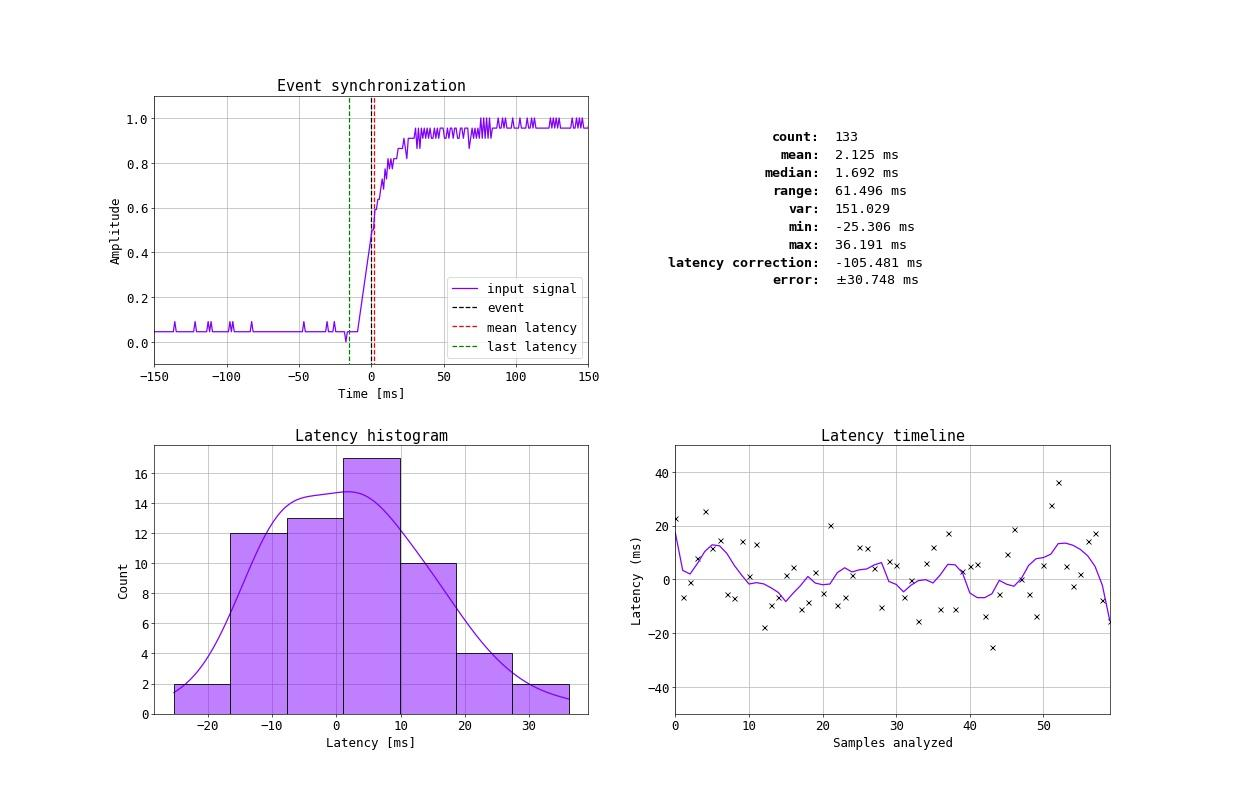
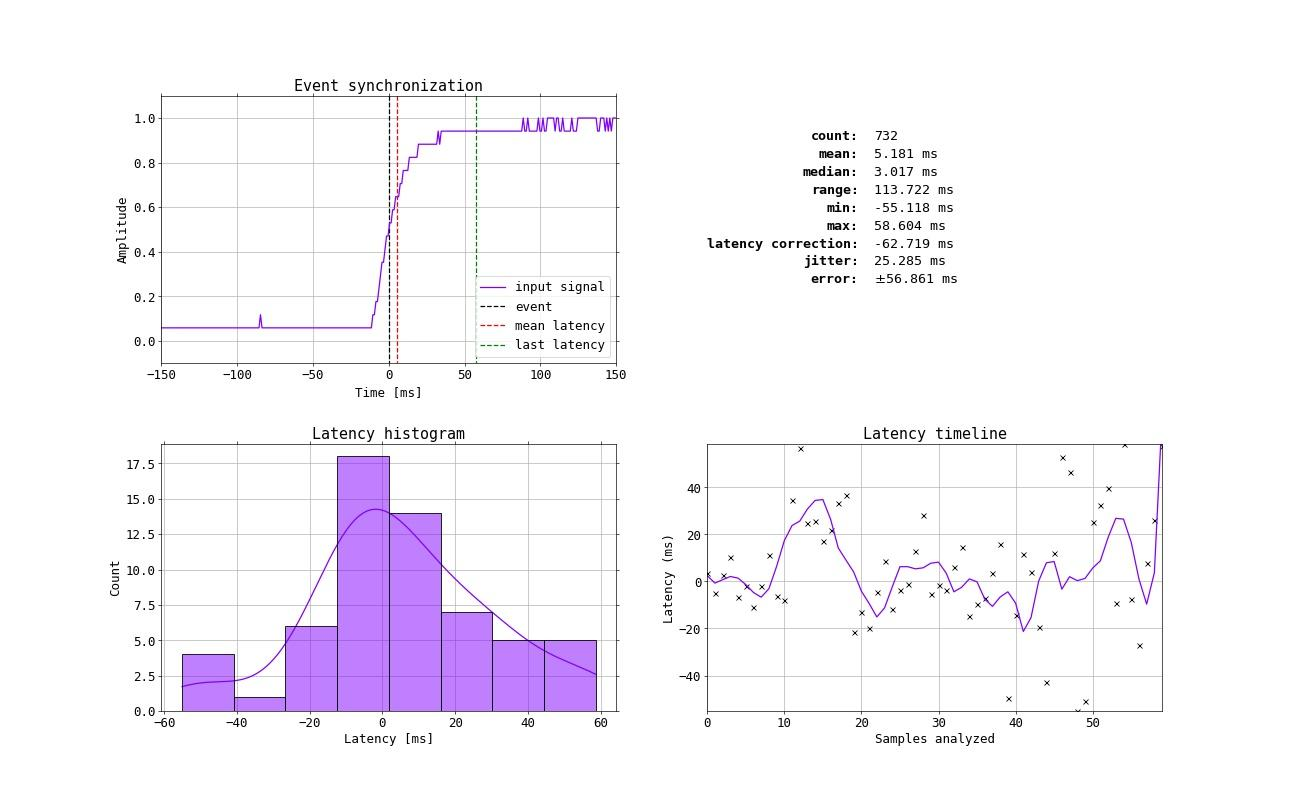
Update timestamps

diff --git a/bci_framework/extensions/data_analysis/utils.py b/bci_framework/extensions/data_analysis/utils.py
@@ -11,7 +11,8 @@ import random
 from datetime import datetime, timedelta
 from multiprocessing import Process
 from threading import Thread
-from typing import Callable, Union, List
+from typing import Callable
+import re
 
 import numpy as np
 from openbci_stream.acquisition import OpenBCIConsumer
@@ -76,10 +77,10 @@ def loop_consumer(*topics) -> Callable:
                         frame += 1
                         if hasattr(cls, 'buffer_eeg'):
                             cls.update_buffer(
-                                *data.value['data'], data.value['context']['binary_created'])
-                        # latency calculated with `binary_created`
+                                *data.value['data'], data.value['context']['timestamp.binary'])
+                        # latency calculated with `timestamp.binary`
                         latency = (datetime.now() - datetime.fromtimestamp(
-                            data.value['context']['binary_created'])).total_seconds() * 1000
+                            data.value['context']['timestamp.binary'])).total_seconds() * 1000
                         data_ = data.value['data']
                     else:
                         # latency calculated with kafka timestamp
@@ -164,7 +165,7 @@ def fake_loop_consumer(*topics) -> Callable:
                 if 'marker' in topics:
                     if np.random.random() > 0.9:
                         data.value['timestamp'] = datetime.now()
-                        data.value['context']['binary_created'] = datetime.now()
+                        data.value['context']['timestamp.binary'] = datetime.now()
                         # data.value['data'] = chr(
                             # np.random.choice(range(ord('A'), ord('Z') + 1)))
                         data.value['data'] = random.choice(
@@ -214,6 +215,8 @@ def marker_slicing(markers, t0, duration):
 
                     # marker, target = target
                     if cls.buffer_timestamp[-1] > (datetime.fromtimestamp(target[0][1]) + timedelta(seconds=duration - t0)).timestamp():
+                    # if True:
+
 
                         _marker, _target = target.pop(0)
 

diff --git a/bci_framework/kafka_scripts/latency_synchronization_visualization/main.py b/bci_framework/kafka_scripts/latency_synchronization_visualization/main.py
@@ -119,7 +119,7 @@ class Stream(EEGStream):
             # if len(self.latencies) <= 1 and (frame % 3) == 0:
                 # self.feed()
             # return
-
+        print('Hola')
         latencies = np.array(self.latencies)
 
         if latencies.size > 5:
@@ -206,10 +206,13 @@ class Stream(EEGStream):
                 ('median', f'{np.median(latencies):.3f} ms'),
                 # ('std', f'{np.std(latencies):.3f}'),
                 ('range', f'{latencies.max()-latencies.min():.3f} ms'),
-                ('var', f'{latencies.var():.3f}'),
+                # ('var', f'{latencies.var():.3f}'),
                 ('min', f'{latencies.min():.3f} ms'),
                 ('max', f'{latencies.max():.3f} ms'),
                 ('latency correction', f'{self.latency_correction:.3f} ms'),
+                # ('jitter', f'{np.std(latencies)}:.3f} ms'),
+
+                ('jitter', f'{np.std(latencies):.3f} ms'),
                 ('error',
                  f'$\pm${abs(latencies.max()-latencies.min())/2:.3f} ms'),
             ]):

diff --git a/bci_framework/framework/widgets/connection.py b/bci_framework/framework/widgets/connection.py
@@ -14,6 +14,8 @@ from PySide2.QtCore import Qt, Signal, QThread, Slot
 from PySide2.QtGui import QCursor
 from PySide2.QtWidgets import QApplication
 
+import ntplib
+
 from ..dialogs import Dialogs
 from ...extensions import properties as prop
 
@@ -369,6 +371,17 @@ class Connection:
         self.parent_frame.pushButton_connect.setText('Disconnect')
         self.parent_frame.pushButton_connect.setEnabled(True)
         self.parent_frame.pushButton_connect.setChecked(True)
+
+
+        # try:
+            # client = ntplib.NTPClient()
+            # ntp_offset = client.request(prop.HOST).offset * 1000
+            # Dialogs.critical_message(self.parent_frame, 'Clock offset',
+                                     # f'Detected serius clock desynchonization of {ntp_offset :.2f} ms')
+            # # print(f" NTP offset: {ntp_offset :.2f} ms")
+        # except:
+            # pass
+
 
     # ----------------------------------------------------------------------
     @Slot()

diff --git a/bci_framework/framework/core.py b/bci_framework/framework/core.py
@@ -511,13 +511,13 @@ class BCIFramework(QMainWindow):
             self.handle_feedback(value['value'])
 
         elif value['topic'] == 'eeg':
-            # self.status_bar('Incoming streaming detected')
+            # Use only remote times to make the calculation, so the
+            # differents clocks not affect the measure
             eeg, aux = value['value']['data']
             binary_created = datetime.fromtimestamp(
-                value['value']['context']['binary_created'])
+                value['value']['context']['timestamp.binary'])
             message_created = datetime.fromtimestamp(
                 value['value']['timestamp'])
-            # since = (datetime.now() - binary_created).total_seconds()
             since = (message_created - binary_created).total_seconds()
             count = value['value']['context']['samples']
             channels = eeg.shape[0]

diff --git a/bci_framework/extensions/properties.py b/bci_framework/extensions/properties.py
@@ -27,15 +27,15 @@ class Properties:
             ...
     ```
     """
-    # # HOST = 'localhost'
+    # # # HOST = 'localhost'
     # HOST = '192.168.1.1'
-    # # CHANNELS = {i + 1: ch for i, ch in enumerate('Fp1,Fp2,T3,C3,C4,T4,O1,O2'.split(','))}
-    # CHANNELS = {i + 1: ch for i,
-                # ch in enumerate('Fp1,Fp2,F7,F3,F4,F8,T3,C3,C4,T4,T5,P3,P4,T6,O1,O2'.split(','))}
+    # CHANNELS = {i + 1: ch for i, ch in enumerate('Fp1,Fp2,T3,C3,C4,T4,O1,O2'.split(','))}
+    # # CHANNELS = {i + 1: ch for i,
+                # # ch in enumerate('Fp1,Fp2,F7,F3,F4,F8,T3,C3,C4,T4,T5,P3,P4,T6,O1,O2'.split(','))}
 
     # SAMPLE_RATE = 1000
     # STREAMING_PACKAGE_SIZE = 100
-    # BOARDMODE = 'digital'
+    # BOARDMODE = 'analog'
     # CONNECTION = 'wifi'
 
     # ----------------------------------------------------------------------

diff --git a/bci_framework/kafka_scripts/record.py b/bci_framework/kafka_scripts/record.py
@@ -76,7 +76,7 @@ class RecordTransformer:
             return
 
         if topic == 'eeg':
-            dt = kafka_stream.value['context']['binary_created']
+            dt = kafka_stream.value['context']['timestamp.binary']
             eeg, aux = kafka_stream.value['data']
             self.writer.add_eeg(eeg, dt)
             self.writer.add_aux(aux)

diff --git a/bci_framework/framework/widgets/records.py b/bci_framework/framework/widgets/records.py
@@ -286,7 +286,7 @@ class Records:
             samples = int(samples)
 
             context = {
-                'binary_created': datetime.now().timestamp(),
+                'timestamp.binary': datetime.now().timestamp(),
                 'created': datetime.now().timestamp(),
                 'samples': samples,
             }

diff --git a/bci_framework/framework/extensions_handler.py b/bci_framework/framework/extensions_handler.py
@@ -185,7 +185,7 @@ class ExtensionWidget(QMdiSubWindow, ExtensionMenu):
         self.current_viz = None
 
         if autostart:
-            self.extensions_list = [autostart]
+            self.extensions_list = [('name', autostart)]
         else:
             self.extensions_list = extensions_list
 
